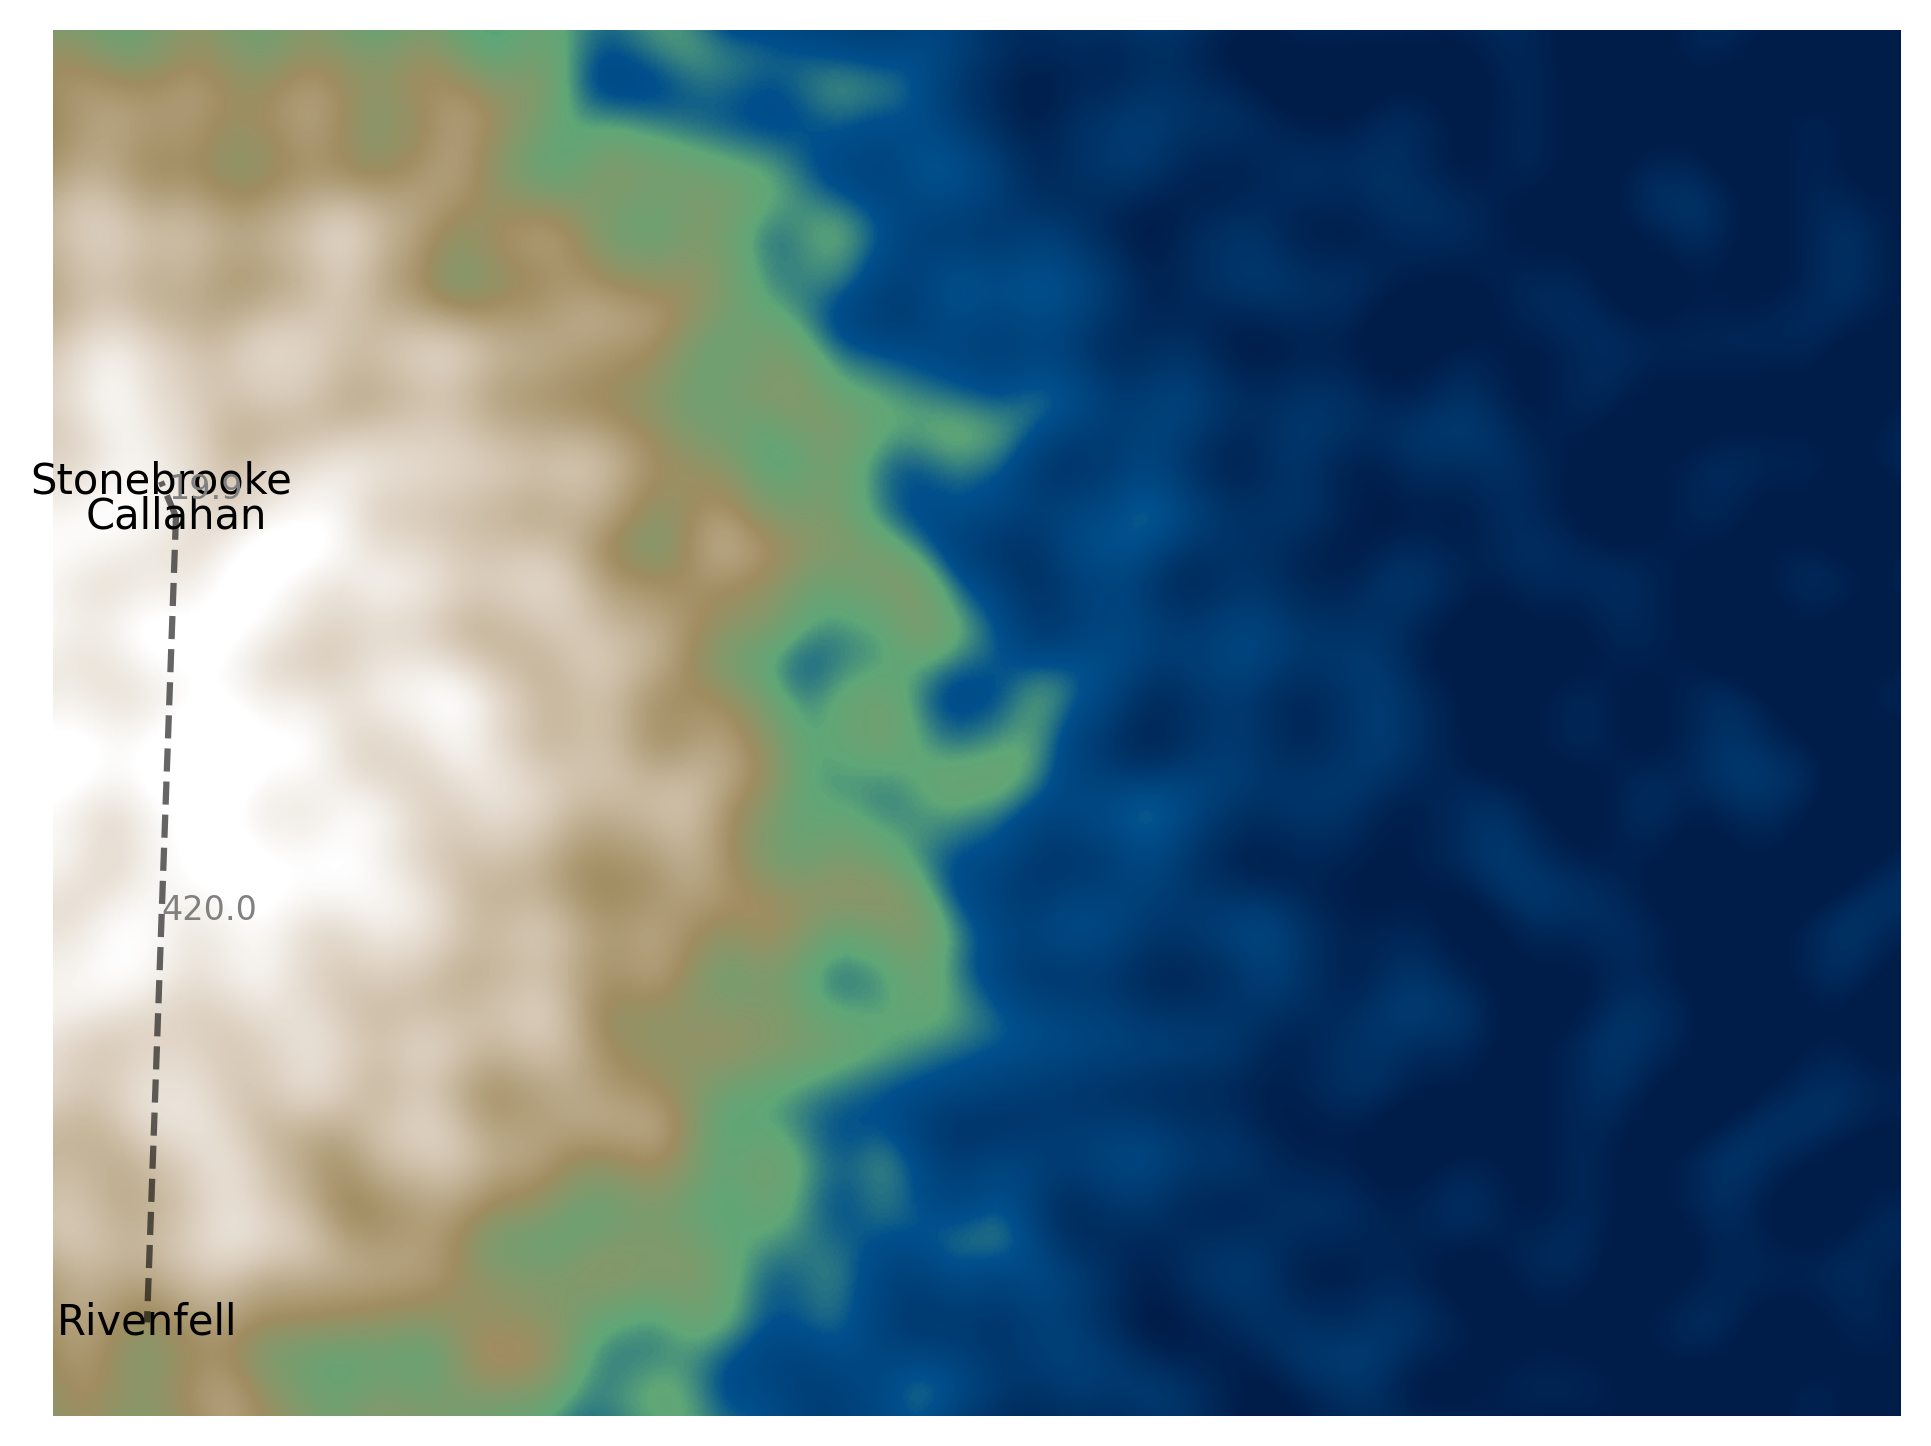
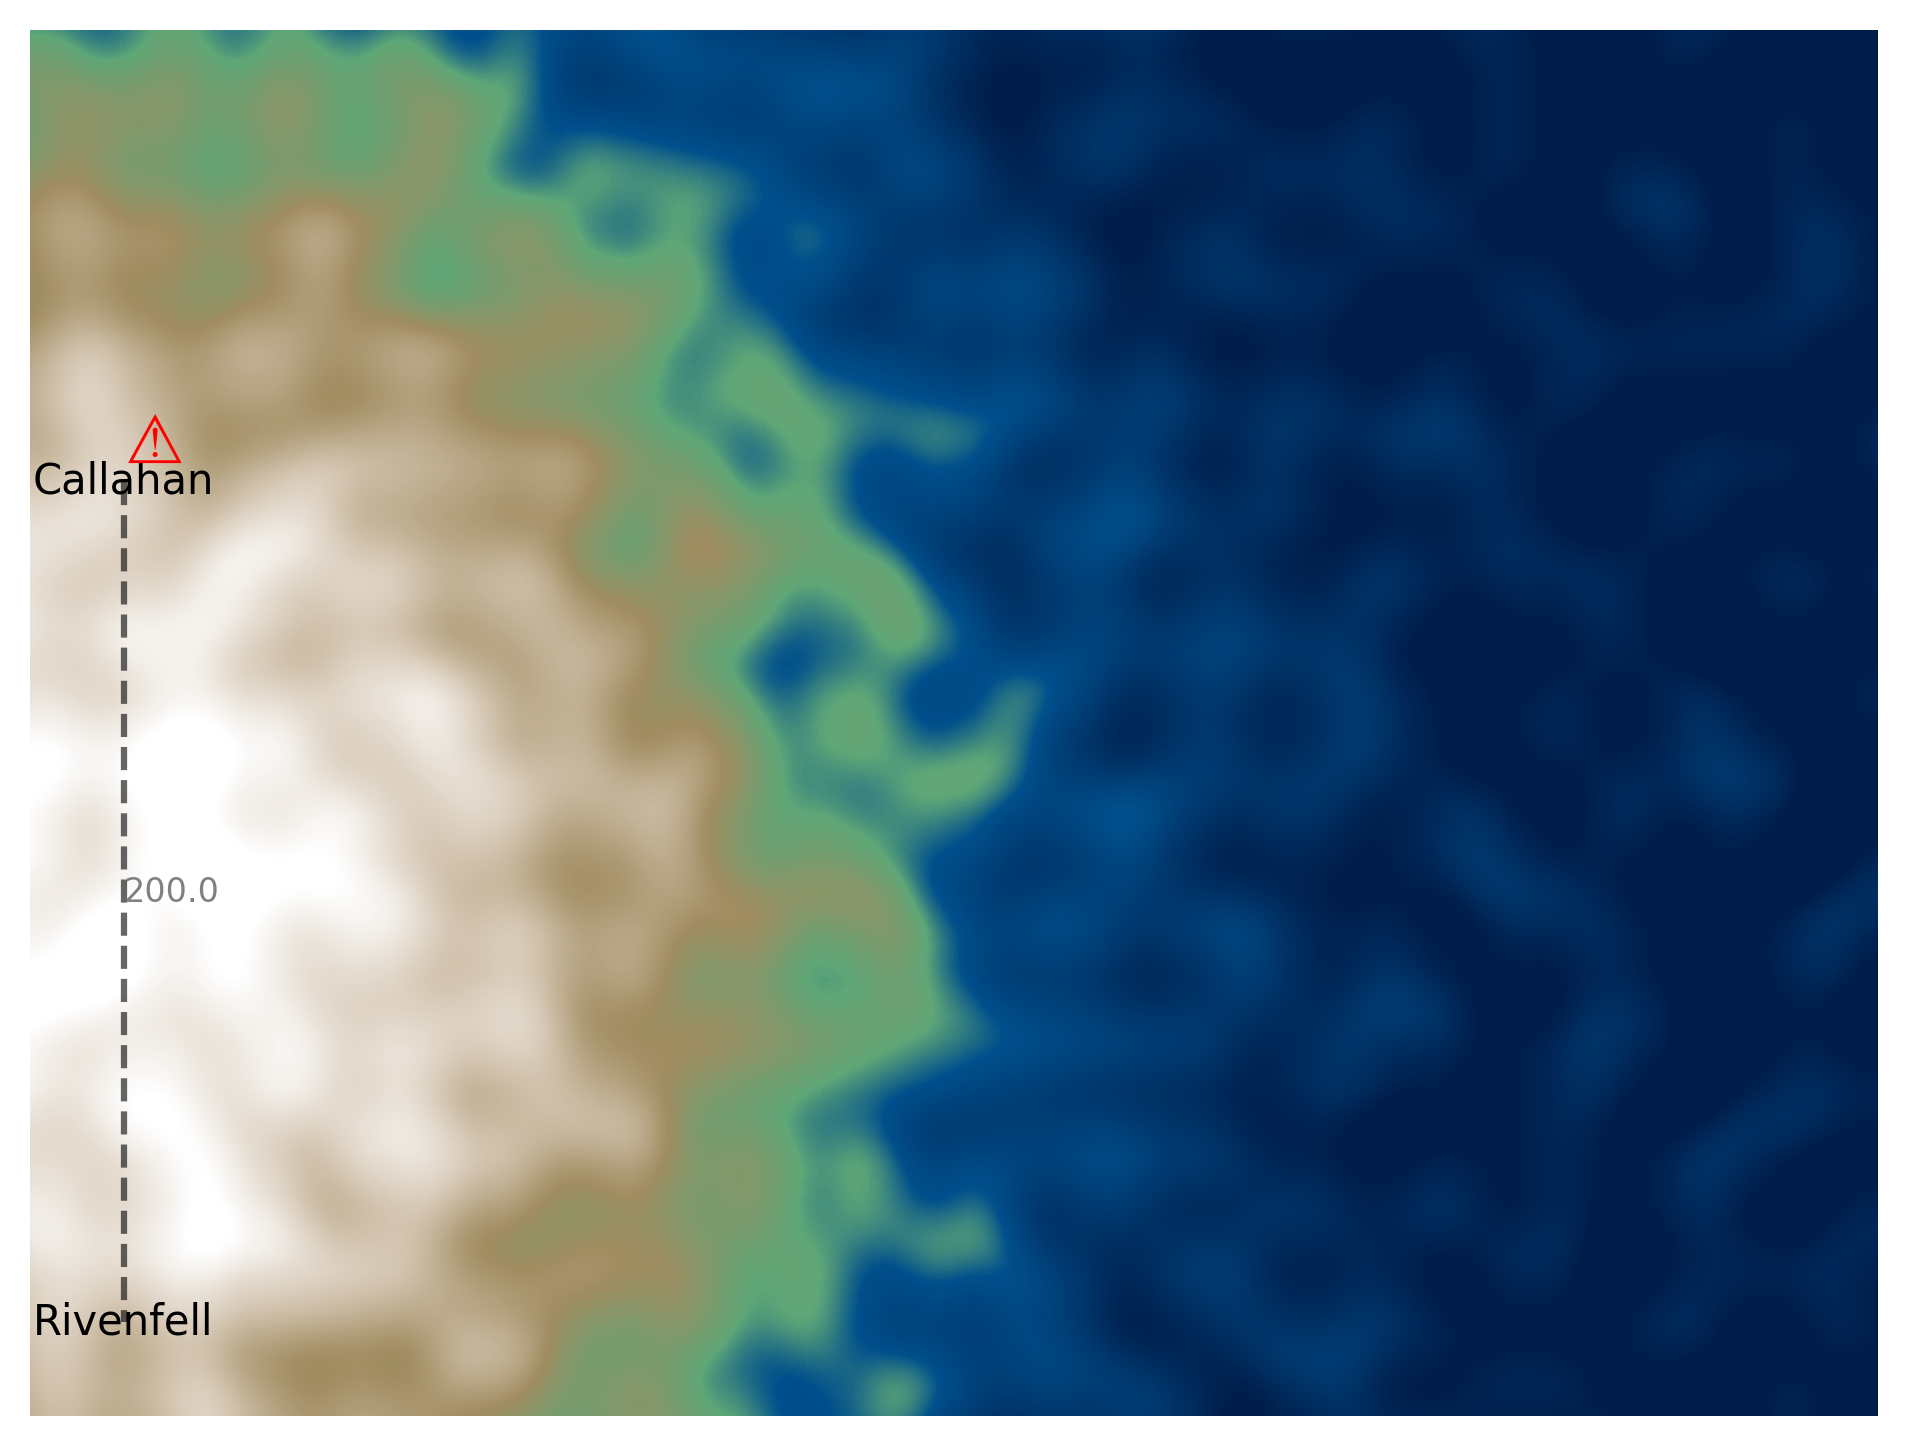
cleaning up

diff --git a/index.html b/index.html
@@ -1,11 +1,10 @@
 <!DOCTYPE html>
-<html>
+<html lang="en">
 
 <head>
-    <meta charset="utf-8" />
-    <meta name="viewport" content="width=device-width, initial-scale=1" />
-    <title> Fantasy Story Map Builder: A Procedural Tool for Automatically Generating Fictional World Maps </title>
-    <meta name="author" content="Your Name">
+    <meta charset="utf-8">
+    <meta name="viewport" content="width=device-width, initial-scale=1">
+    <title>Fantasy Story Map Builder: A Procedural Tool for Automatically Generating Fictional World Maps</title>
 
     <style>
         @import "https://cdn.jsdelivr.net/npm/bulma@0.9.4/css/bulma.min.css";
@@ -13,41 +12,38 @@
 </head>
 
 <body>
-
-    <main>
+    <section class="section">
         <div class="container">
-            <div class="section">
-                <h1>Fantasy Story Map Builder: A Procedural Tool for Automatically Generating Fictional World Maps</h1>
-                <p>CPSC 490 Senior Project by Teni Asade</p>
-                <p>Advised by
-                    <br />James Glenn, Department of Computer Science, Yale University
+            <div class="content">
+                <h1 class="has-text-centered">
+                    Fantasy Story Map Builder: A Procedural Tool for Automatically Generating Fictional World Maps
+                </h1>
+                <p class="subtitle has-text-centered">
+                    <strong>Teni Asade<br>Advisor: James Glenn</strong>
                 </p>
-            </div>
-            <div class="section">
-                <h2>Abstract</h2>
-                <p>
-                    This project presents Story Mapper, a procedural tool that automatically generates fictional world maps directly from narrative prose using Natural Language Processing (NLP) and constraint satisfaction. Fantasy writers often describe spatial relationships implicitly through references to movement, direction, and travel time, but converting these descriptions into coherent maps is typically a time-consuming, manual process. Story Mapper integrates map generation into the writing environment itself through a Google Docs plug-in, allowing authors to visualize their worlds as they create them on the page.
-The system extracts spatial information from user-selected text using named entity recognition, dependency parsing, and relation extraction. Travel durations are converted into approximate distances, enabling both qualitative cues (e.g., north of) and quantitative cues (e.g., 30 days on foot) to be expressed as spatial constraints. Contradictions, such as impossible directions or conflicting distances, are stored. The non-contradictory constraints form a Constraint Satisfaction Problem in which each location is represented as a variable with unknown coordinates. A solver implemented in Python computes a spatial layout that satisfies the maximum number of constraints.
-A visualization module then renders the resulting layout as a terrain-style map using procedural generation techniques and displays it within the Google Doc. Conflicts are highlighted both on the map and in the text, offering immediate, actionable feedback without interrupting the writing process.
-Overall, Story Mapper demonstrates how narrative language can be translated into structured spatial representations. It provides a practical authoring aid for maintaining world coherence and contributes to broader research on computational creativity by showing how AI-driven tools can augment, rather than replace, human storytelling.
-                <p>
-            </div>
 
-            <div class="section">
-                <h2>Links</h2>
+                <h3>Abstract</h3>
+                <p>
+                   This project presents Story Mapper, a procedural tool that automatically generates fictional world maps directly from narrative prose using Natural Language Processing (NLP) and constraint satisfaction. Fantasy writers often describe spatial relationships implicitly through references to movement, direction, and travel time, but converting these descriptions into coherent maps is typically a time-consuming, manual process. Story Mapper integrates map generation into the writing environment itself through a Google Docs plug-in, allowing authors to visualize their worlds as they create them on the page.
+                <br><br>
+                The system extracts spatial information from user-selected text using named entity recognition, dependency parsing, and relation extraction. Travel durations are converted into approximate distances, enabling both qualitative cues (e.g., north of) and quantitative cues (e.g., 30 days on foot) to be expressed as spatial constraints. Contradictions, such as impossible directions or conflicting distances, are stored. The non-contradictory constraints form a Constraint Satisfaction Problem in which each location is represented as a variable with unknown coordinates. A solver implemented in Python computes a spatial layout that satisfies the maximum number of constraints.
+                <br><br>
+                A visualization module then renders the resulting layout as a terrain-style map using procedural generation techniques and displays it within the Google Doc. Conflicts are highlighted both on the map and in the text, offering immediate, actionable feedback without interrupting the writing process.
+                <br><br>
+                Overall, Story Mapper demonstrates how narrative language can be translated into structured spatial representations. It provides a practical authoring aid for maintaining world coherence and contributes to broader research on computational creativity by showing how AI-driven tools can augment, rather than replace, human storytelling.
+                </p>
+
+                <h3>Links</h3>
                 <ul>
-                    <li><a href="FinalReport.pdf">Final report</a></li>
-                    <li><a href="FinalPoster.pdf">Final poster</a></li>
-                    <li><a href="Proposal.pdf">Project proposal (118K)</a></li>
-                    <li><a href= "index.html"> Final Github Commit</a></li>
-                    <li>
-                        <p><a href="code">Final source code</a>
-                        </p>
-                    </li>
+                    <li><a href="Proposal.pdf">Project Proposal</a></li>
+                    <li><a href="Poster.pdf">Final Poster</a></li>
+                    <li><a href="FinalReport.pdf">Final Report</a></li>
+                    <li><a href="code/src">Submitted Code</a></li>
+                    <li><a href="https://github.com/tforteni/story-map">Github Repository</a></li>
                 </ul>
-                <br>
             </div>
-    </main>
+        </div>
+    </section>
 </body>
 
 </html>

diff --git a/code/src/terrain_renderer.py b/code/src/terrain_renderer.py
@@ -55,18 +55,18 @@ def draw_terrain(coords, distances, conflicts, direction_conflicts, with_routes)
     for name, (x, y) in norm_coords.items():
         ax.text(x, y, name, ha="center", va="center", color="black")
 
-    if with_routes:
-        for (a, b), d in distances.items():
-            d = d[0]
-            xa, ya = norm_coords[a]
-            xb, yb = norm_coords[b]
+    for (a, b), d in distances.items():
+        d = d[0]
+        xa, ya = norm_coords[a]
+        xb, yb = norm_coords[b]
+        if with_routes:
             plt.plot([xa, xb], [ya, yb], "k--", alpha=0.6)
             midx, midy = (xa+xb)/2, (ya+yb)/2
             plt.text(midx, midy, f"{d:.1f}", fontsize=8, color="gray")
 
-            s_key = tuple(sorted((a, b)))
-            if s_key in conflicts or s_key in direction_conflicts:
-                plt.text(xa+0.6, ya+8, "⚠", fontsize=16, color="red")
+        s_key = tuple(sorted((a, b)))
+        if s_key in conflicts or s_key in direction_conflicts:
+            plt.text(xa+0.6, ya+8, "⚠", fontsize=16, color="red")
                          
     ax.axis("off")
 

diff --git a/code/src/terrain_renderer_local.py b/code/src/terrain_renderer_local.py
@@ -54,7 +54,6 @@ def draw_terrain(coords, distances, conflicts, direction_conflicts, with_routes)
     for name, (x, y) in norm_coords.items():
         ax.text(x, y, name, ha="center", va="center", color="black")
 
-    
     for (a, b), d in distances.items():
         d = d[0]
         xa, ya = norm_coords[a]
@@ -64,9 +63,9 @@ def draw_terrain(coords, distances, conflicts, direction_conflicts, with_routes)
             midx, midy = (xa+xb)/2, (ya+yb)/2
             plt.text(midx, midy, f"{d:.1f}", fontsize=8, color="gray")
 
-    s_key = tuple(sorted((a, b)))
-    if s_key in conflicts or s_key in direction_conflicts:
-        plt.text(xa+0.6, ya+8, "⚠", fontsize=16, color="red")
+        s_key = tuple(sorted((a, b)))
+        if s_key in conflicts or s_key in direction_conflicts:
+            plt.text(xa+0.6, ya+8, "⚠", fontsize=16, color="red")
                          
     ax.axis("off")
 

diff --git a/code/src/extractor.py b/code/src/extractor.py
@@ -324,8 +324,9 @@ def extract_travel_info(text, nlp, ner) -> dict:
     all_locations = [ent["word"] for ent in entities if ent.get("entity_group") == "LOC"]
 
     sent_doc = nlp(text)
-    for token in sent_doc:
-        print(token.text, token.dep_, token.head.text, token.pos_)
+    # Debug text
+    # for token in sent_doc:
+    #     print(token.text, token.dep_, token.head.text, token.pos_)
 
     info["date"] = [ent.text for ent in sent_doc.ents if ent.label_ in ("DATE", "TIME")]
 

diff --git a/code/src/main.py b/code/src/main.py
@@ -25,7 +25,11 @@ def main():
     map_file_path = terrain_renderer_local.draw_terrain(coords, distances, conflicts, direction_conflicts, with_routes)
 
     all_conflicts = solver.remove_exact_duplicate_pairs(solver.extract_all_conflict_sentence_pairs(conflicts, direction_conflicts))
-
+    print("Conflicts: ")
+    if all_conflicts:
+        print(all_conflicts)
+    else:
+        print("None")
     return map_file_path, all_conflicts
 
 if __name__=="__main__":

diff --git a/README.md b/README.md
@@ -41,8 +41,11 @@ pip install -r requirements.txt
 ```bash
 python3 -m src.main INPUT_FILE WITH_ROUTES(1 or 0)
 # e.g. python3 -m src.main data/example1.txt 1
+# example15.txt, example18.txt, and example19.txt are fun ones to try!
 ```
 
 You can run the program on your own text files. I suggest using simple sentences. The generated map will be called map.png and will be saved in the code directory.
+
+The Google Docs integration code in the google-docs-integration folder is not able to be run locally but is included for reference.
 
 
